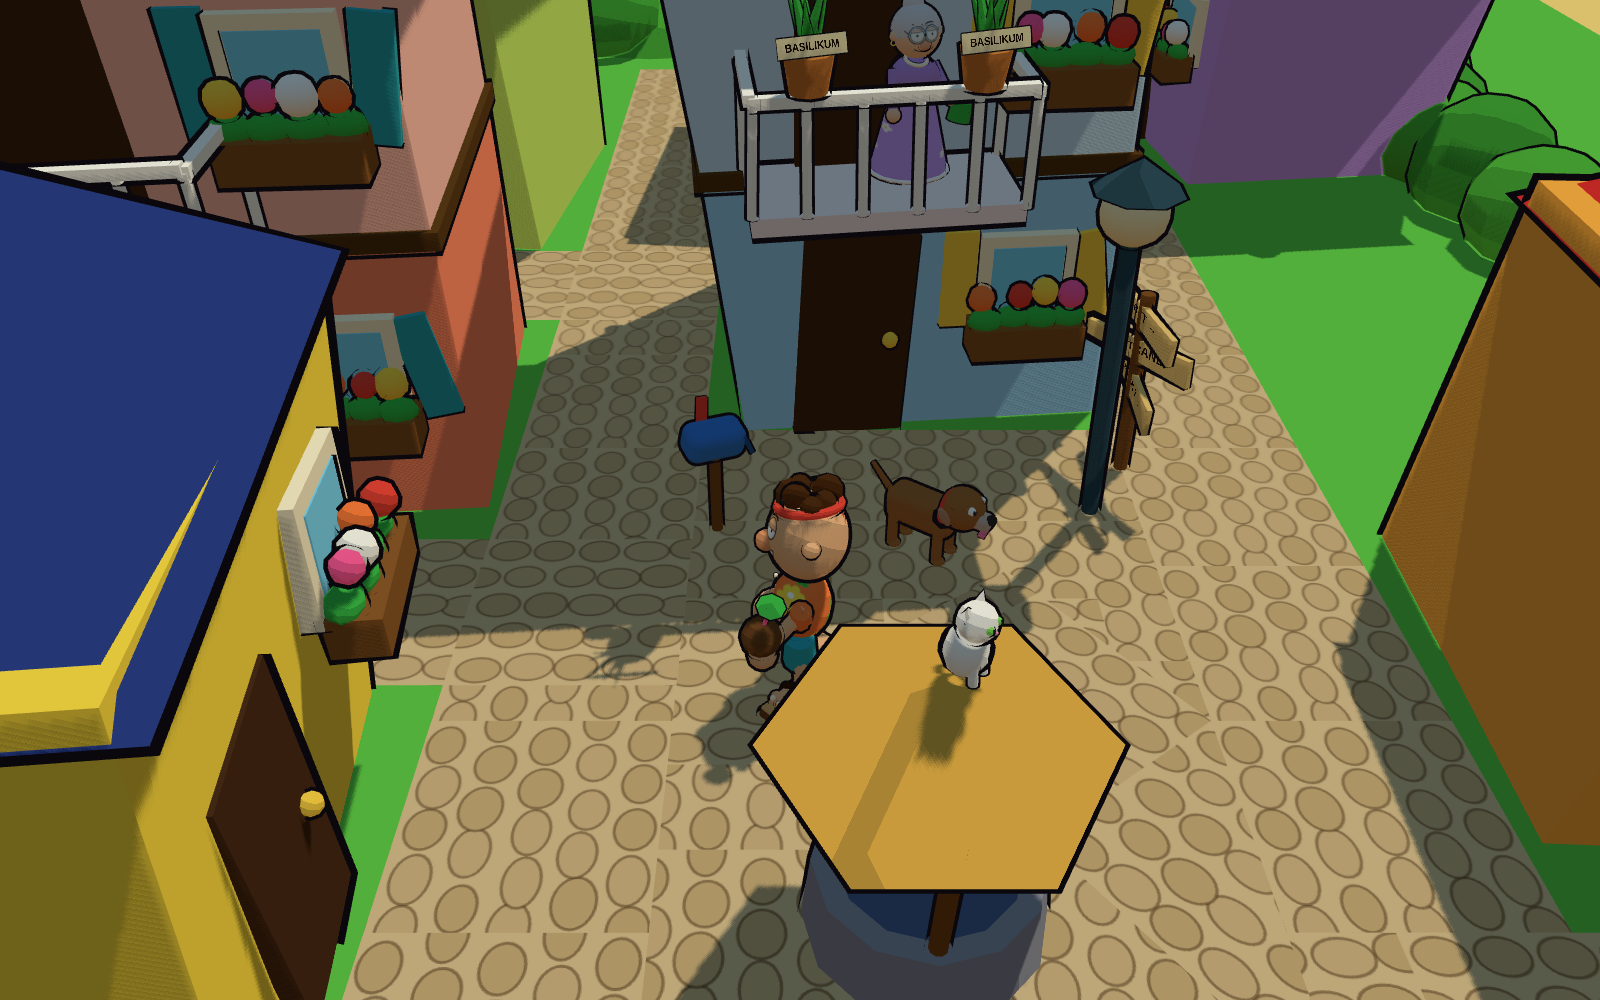
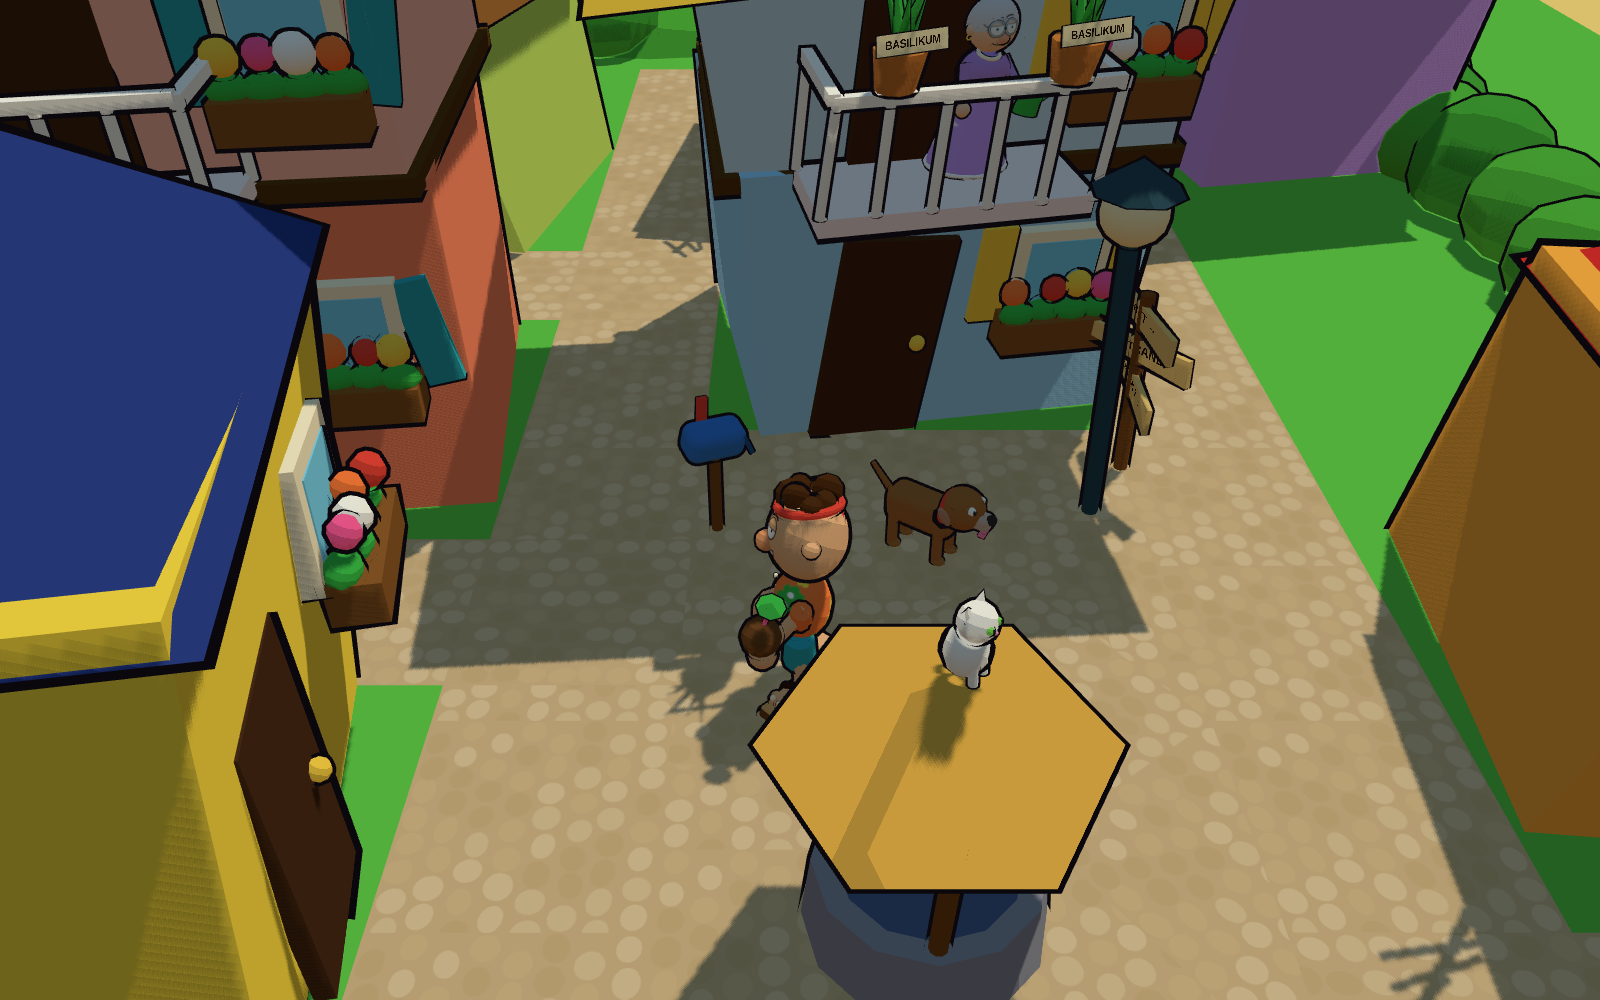
Dorf: schiefe Häuser mit Spitzdächern

diff --git a/spiel/js/zone-dorf.js b/spiel/js/zone-dorf.js
@@ -6,14 +6,35 @@
 import * as THREE from 'three';
 import { RoundedBoxGeometry } from 'three/addons/geometries/RoundedBoxGeometry.js';
 import { toonMesh, toon, deform, rng, textTexture, stripeTexture, BLACK } from './toon.js';
-import { limb, hut, mailbox, barrier, lamp } from './props.js';
+import { limb, mailbox, barrier, lamp } from './props.js';
 import { sneaker } from './figures.js';
 import { face, faceDecal } from './faces.js';
 import { BUILDING_BASE, buildingScale } from './logic.js';
 import { HOUSES, LANES, EXITS, PROPS, EDGES, DORF_SPOTS, footprintAABB } from './zone-dorf-layout.js';
 
 const V = (x, y, z) => new THREE.Vector3(x, y, z);
+const UP = new THREE.Vector3(0, 1, 0);
 const SCALE = buildingScale('hut');
+
+// Haus schief hinstellen: Position + Drehung + Skalierung, dazu eine Scherung (x' = x + kx·y, z' = z + kz·y),
+// die das ganze Haus samt Dach zur Seite kippt. Der Grundriss bei y = 0 bleibt, der Collider stimmt weiter.
+function placeCrooked(obj, x, z, rot, scale, kx, kz) {
+  const shear = new THREE.Matrix4().set(1, kx, 0, 0, 0, 1, 0, 0, 0, kz, 1, 0, 0, 0, 0, 1);
+  obj.matrix.compose(V(x, 0, z), new THREE.Quaternion().setFromAxisAngle(UP, rot), V(scale, scale, scale)).multiply(shear);
+  obj.matrixAutoUpdate = false;
+  obj.matrixWorldNeedsUpdate = true;
+}
+
+// Krumme Fernsehantenne fürs Dach
+function antenna() {
+  const g = new THREE.Group();
+  g.add(limb(V(0, 0, 0), V(0.15, 1.6, 0.08), 0.04, 0x555566, { outline: 0.02 }));
+  for (let i = 0; i < 3; i++) {
+    const bar = toonMesh(new THREE.BoxGeometry(0.9 - i * 0.2, 0.04, 0.04), 0x555566, { outline: 0.02 });
+    bar.position.set(0.08 + i * 0.03, 0.9 + i * 0.3, 0.04); bar.rotation.set(0, 0.3 + i * 0.2, 0.08 * (i % 2 ? 1 : -1)); g.add(bar);
+  }
+  return g;
+}
 const tint = (hex, k) => new THREE.Color(hex).lerp(new THREE.Color(0xffffff), k).getHex();
 
 // ---------- Canvas-Texturen (keine Fremd-Assets) ----------
@@ -322,33 +343,98 @@ function oma() {
   return g;
 }
 
+// ---------- Dorfhaus: eine Etage, Grundriss wie hut() (3.2 × 3.0), aber hohes verzogenes Dach mit welligem
+// Überhang, Gaube auf manchen, krummer Schornstein — damit es auch von oben schief aussieht ----------
+function cottage({ wall = 0xf08ac4, roofColor = 0x2fa9b9, lean = 0.4, seed = 2, sign = null } = {}) {
+  const g = new THREE.Group();
+  const rand = rng(seed);
+  const w = 3.2, d = 3.0, h = 2.3 + (seed % 3) * 0.3, flare = 1.12, twist = (seed % 2 ? 1 : -1) * 0.06;
+  const wallGeo = new THREE.BoxGeometry(w, h, d);
+  deform(wallGeo, (v) => { if (v.y > 0) { v.x = v.x * flare + lean; v.z = v.z * 1.06 + lean * 0.25; } });
+  wallGeo.translate(0, h / 2, 0);
+  g.add(toonMesh(wallGeo, wall, { outline: 0.06 }));
+  const frontZ = (t) => (d / 2) * (1 - t) + (d / 2 * 1.06 + lean * 0.25) * t;
+  const frontX = (t, x) => x * (1 + (flare - 1) * t) + lean * t;
+  // Tür, Klinke, Schild
+  const doorH = BUILDING_BASE.hut.door;
+  const door = toonMesh(new THREE.BoxGeometry(0.95, doorH, 0.12), 0x4a2e1a, { outline: 0.04 });
+  door.position.set(frontX(0.3, -0.55), doorH / 2, frontZ(0.35) + 0.02); door.rotation.z = 0.06; g.add(door);
+  const knob = toonMesh(new THREE.SphereGeometry(0.07, 8, 6), 0xffd54a, { outline: 0.02 });
+  knob.position.set(0.28, 0, 0.1); door.add(knob);
+  if (sign) {
+    const sp = plate(sign, 1.0, 0.17, { font: 'bold 60px sans-serif', tw: 1024, th: 112, thick: 0.03 });
+    sp.position.set(frontX(0.3, -0.55), doorH * 0.8, frontZ(0.35) + 0.1); sp.rotation.z = 0.1; g.add(sp);
+  }
+  // Fenster mit Läden, einer hängt; Blumenkasten darunter
+  const wx = frontX(0.62, 0.75), wy = h * 0.62, wz = frontZ(0.62) + 0.04;
+  const win = new THREE.Group();
+  win.add(toonMesh(new THREE.BoxGeometry(0.85, 0.8, 0.14), 0xfff4d6, { outline: 0.04 }));
+  win.add(toonMesh(new THREE.BoxGeometry(0.62, 0.58, 0.16), 0x7fd8ff, { outline: 0.02 }));
+  for (const sd of [-1, 1]) {
+    const sh = toonMesh(new THREE.BoxGeometry(0.28, 0.86, 0.08), roofColor, { outline: 0.03 });
+    sh.position.set(sd * 0.58, sd > 0 ? -0.05 : 0, -0.02); sh.rotation.z = sd > 0 ? 0.16 : 0; win.add(sh);
+  }
+  win.position.set(wx, wy, wz); win.rotation.z = -0.07; g.add(win);
+  const fb = flowerBox(0.95, seed); fb.position.set(wx, wy - 0.58, wz + 0.22); g.add(fb);
+  // Dach: hohe Pyramide, Spitze weit verzogen, Traufe wellig, Überhang, schräg aufgesetzt
+  const rr = w * flare * 0.8, roofH = 2.0 + (seed % 2) * 0.5;
+  const roofGeo = new THREE.ConeGeometry(rr, roofH, 4);
+  roofGeo.rotateY(Math.PI / 4 + twist);
+  deform(roofGeo, (v) => { if (v.y > 0.4) { v.x += lean * 1.5; v.z += lean * 0.4; } else { v.y -= 0.16 * Math.abs(Math.sin(v.x * 2.2 + 0.5)); } });
+  roofGeo.scale(1, 1, (d * 1.06) / (w * flare));
+  const roof = toonMesh(roofGeo, roofColor, { outline: 0.06 });
+  roof.position.set(lean * 0.9, h + roofH / 2 - 0.18, lean * 0.2); roof.rotation.set(0.03, 0, 0.06); g.add(roof);
+  // Gaube vorn auf jedem zweiten Haus
+  if (seed % 3 === 1) {
+    const dormer = toonMesh(new THREE.BoxGeometry(0.8, 0.7, 0.9), wall, { outline: 0.04 });
+    dormer.position.set(lean * 0.8 - 0.3, h + 0.55, d * 0.3); dormer.rotation.z = 0.05; g.add(dormer);
+    const dw = toonMesh(new THREE.BoxGeometry(0.45, 0.4, 0.1), 0x7fd8ff, { outline: 0.025 });
+    dw.position.set(0, 0.02, 0.46); dormer.add(dw);
+    const dr = toonMesh(new THREE.ConeGeometry(0.75, 0.6, 4), roofColor, { outline: 0.04 });
+    dr.geometry.rotateY(Math.PI / 4); dr.position.set(0, 0.6, 0); dr.rotation.z = 0.08; dormer.add(dr);
+  }
+  // Schornstein krumm, Antenne auf jedem dritten Haus
+  const cx = w * 0.3 - lean * 0.3, cz = -d * 0.2;
+  g.add(limb(V(cx, h + 0.4, cz), V(cx + 0.4, h + 1.9 + (seed % 2) * 0.3, cz + 0.1), 0.15, 0x555566, { outline: 0.04 }));
+  const cap = toonMesh(new THREE.CylinderGeometry(0.24, 0.24, 0.12, 10), 0x333344, { outline: 0.03 });
+  cap.position.set(cx + 0.42, h + 1.96 + (seed % 2) * 0.3, cz + 0.1); cap.rotation.z = 0.2; g.add(cap);
+  if (seed % 3 === 0) { const a = antenna(); a.position.set(-0.7, h + 1.0, -0.4); a.rotation.z = 0.2; g.add(a); }
+  void rand;
+  return g;
+}
+
 // ---------- Stadthaus: zwei Etagen, Balkon, Fensterläden, Blumenkästen (Grundriss wie hut: 3.2 × 3.0) ----------
 function townhouse({ wall = 0x9fd8ff, roofColor = 0xffd54a, lean = 0.3, seed = 4 } = {}) {
   const g = new THREE.Group();
   const rand = rng(seed);
-  const w = 3.2, d = 3.0, h1 = 2.4, h2 = 2.2, flare = 1.08;
+  // Höhen je Haus verschieden, Obergeschoss gegen das Erdgeschoss verdreht und weiter ausgestellt
+  const w = 3.2, d = 3.0, h1 = 2.2 + (seed % 3) * 0.3, h2 = 1.9 + (seed % 2) * 0.5, flare = 1.1, twist = (seed % 2 ? 1 : -1) * 0.07;
   const f1 = new THREE.BoxGeometry(w, h1, d);
-  deform(f1, (v) => { if (v.y > 0) { v.x = v.x * flare + lean * 0.5; v.z *= 1.03; } });
+  deform(f1, (v) => { if (v.y > 0) { v.x = v.x * flare + lean * 0.6; v.z = v.z * 1.04 + lean * 0.15; } });
   f1.translate(0, h1 / 2, 0);
   g.add(toonMesh(f1, wall, { outline: 0.06 }));
-  const w2 = w * flare, d2 = d * 1.03;
+  const w2 = w * flare, d2 = d * 1.04;
   const f2 = new THREE.BoxGeometry(w2, h2, d2);
-  deform(f2, (v) => { if (v.y > 0) { v.x = v.x * flare + lean * 0.6; v.z *= 1.04; } });
-  f2.translate(lean * 0.5, h1 + h2 / 2, 0);
+  deform(f2, (v) => { if (v.y > 0) { v.x = v.x * flare + lean * 0.8; v.z = v.z * 1.06 + lean * 0.2; } });
+  f2.rotateY(twist);
+  f2.translate(lean * 0.6, h1 + h2 / 2, lean * 0.15);
   g.add(toonMesh(f2, tint(wall, 0.35), { outline: 0.06 }));
-  const band = toonMesh(new THREE.BoxGeometry(w2 + 0.12, 0.14, d2 + 0.12), 0x5a3b1a, { outline: 0.035 });
-  band.position.set(lean * 0.5, h1, 0); band.rotation.z = 0.01; g.add(band);
-  // Dach: Pyramide, Spitze verzogen
-  const rr = w2 * flare * 0.85;
-  const roofGeo = new THREE.ConeGeometry(rr, 1.4, 4);
-  roofGeo.rotateY(Math.PI / 4);
-  deform(roofGeo, (v) => { if (v.y > 0.5) { v.x += lean * 0.9; v.z += lean * 0.25; } });
-  roofGeo.scale(1, 1, (d2 * 1.04) / (w2 * flare));
+  const band = toonMesh(new THREE.BoxGeometry(w2 + 0.16, 0.14, d2 + 0.16), 0x5a3b1a, { outline: 0.035 });
+  band.position.set(lean * 0.6, h1, lean * 0.15); band.rotation.set(0.02, twist, 0.03); g.add(band);
+  // Dach: hohe Pyramide mit Überhang, Spitze weit verzogen, insgesamt schräg aufgesetzt
+  const rr = w2 * flare * 0.82;
+  const roofH = 1.9 + (seed % 3) * 0.3;
+  const roofGeo = new THREE.ConeGeometry(rr, roofH, 4);
+  roofGeo.rotateY(Math.PI / 4 + twist);
+  deform(roofGeo, (v) => { if (v.y > 0.5) { v.x += lean * 1.6; v.z += lean * 0.5; } else { v.y -= 0.12 * Math.abs(Math.sin(v.x * 2.5)); } });
+  roofGeo.scale(1, 1, (d2 * 1.06) / (w2 * flare));
   const roof = toonMesh(roofGeo, roofColor, { outline: 0.06 });
-  roof.position.set(lean * 1.1, h1 + h2 + 0.65, 0); roof.rotation.z = 0.04; g.add(roof);
-  g.add(limb(V(-w * 0.3, h1 + h2 + 0.5, -d * 0.2), V(-w * 0.3 - 0.3, h1 + h2 + 1.9, -d * 0.2), 0.15, 0x555566, { outline: 0.04 }));
+  roof.position.set(lean * 1.0, h1 + h2 + roofH / 2 - 0.1, lean * 0.2); roof.rotation.set(0.04, 0, 0.07); g.add(roof);
+  const topY = h1 + h2 + roofH * 0.35;
+  g.add(limb(V(-w * 0.3, topY - 0.3, -d * 0.2), V(-w * 0.3 - 0.45, topY + 1.3, -d * 0.2 + 0.1), 0.15, 0x555566, { outline: 0.04 }));
   const cap = toonMesh(new THREE.CylinderGeometry(0.24, 0.24, 0.12, 10), 0x333344, { outline: 0.03 });
-  cap.position.set(-w * 0.3 - 0.32, h1 + h2 + 1.95, -d * 0.2); cap.rotation.z = 0.15; g.add(cap);
+  cap.position.set(-w * 0.3 - 0.47, topY + 1.36, -d * 0.2 + 0.1); cap.rotation.z = 0.25; g.add(cap);
+  if (seed % 2) { const a = antenna(); a.position.set(w * 0.35, topY + 0.1, d * 0.15); a.rotation.z = -0.15; g.add(a); }
 
   const frontZ1 = (t) => (d / 2) * (1 + 0.03 * t);
   const frontZ2 = (t) => (d2 / 2) * (1 + 0.04 * t);
@@ -537,19 +623,11 @@ export function buildDorf(parent, colliders) {
         towel.position.copy(obj.userData.railing).add(V(-0.4, -0.2, 0.02)); obj.add(towel);
       }
     } else {
-      obj = hut({ w: 3.2, h: 3.0, d: 3.0, lean, wall: h.wall, roofColor: h.roof, seed: h.seed });
-      // Blumenkasten unterm Fenster (Fensterposition wie in props.hut)
-      const fx = 0.75 * (1 + 0.14 * 0.62) + lean * 0.62, fz = 1.5 * 0.38 + (1.5 * 1.06 + lean * 0.25) * 0.62;
-      const fb = flowerBox(0.95, h.seed); fb.position.set(fx, 3.0 * 0.62 - 0.58, fz + 0.26); obj.add(fb);
-      if (h.sign) {
-        const s = plate(h.sign, 1.0, 0.17, { font: 'bold 60px sans-serif', tw: 1024, th: 112, thick: 0.03 });
-        s.position.set(-0.55 * 1.042 + 0.3 * lean, BUILDING_BASE.hut.door * 0.8, 1.5 * 0.65 + (1.59 + 0.25 * lean) * 0.35 + 0.1);
-        s.rotation.z = 0.1; obj.add(s);
-      }
+      obj = cottage({ wall: h.wall, roofColor: h.roof, lean: lean * (1 + (h.seed % 2) * 0.3), seed: h.seed, sign: h.sign });
     }
-    obj.position.set(h.x, 0, h.z);
-    obj.rotation.y = h.rot;
-    obj.scale.setScalar(SCALE);
+    // ganzes Haus zur Seite kippen (Scherung 4–9 %), Richtung je Haus anders
+    const r2 = rng(100 + h.seed);
+    placeCrooked(obj, h.x, h.z, h.rot, SCALE, (r2() - 0.5) * 0.18, (r2() - 0.5) * 0.14);
     add(obj);
     houseObjs[h.id] = obj;
     colliders.push(footprintAABB(h));

diff --git a/spiel/js/zone-dorf-layout.js b/spiel/js/zone-dorf-layout.js
@@ -10,19 +10,20 @@ export const DORF = { minX: -9, maxX: 38, minZ: -73, maxZ: -26 }; // im Süden (
 // Grundriss eines Hauses bei Gebäudeskala 2.1 (hut(): 3.2 × 3.0 → 6.72 × 6.3) plus Rand
 export const HOUSE = { w: 6.72, d: 6.3, margin: 0.12 };
 
-// kind: 'hut' (eine Etage, Kegeldach) | 'town' (zwei Etagen, Balkon). rot: Gierung, 0 = Tür nach Süden (+z).
+// kind: 'hut' (eine Etage, Kegeldach) | 'town' (zwei Etagen, Balkon). rot: Gierung, 0 = Tür nach Süden (+z);
+// jedes Haus ist 6–12° aus dem Raster gedreht (Krummgassen).
 export const HOUSES = [
-  { id: 'A', x: -5, z: -30, rot: Math.PI / 2 + 0.05, kind: 'hut', wall: 0xf08ac4, roof: 0x2fa9b9, seed: 2, sign: 'KLINGEL KAPUTT – RUFEN' },
-  { id: 'B', x: 6, z: -30, rot: -Math.PI / 2 - 0.05, kind: 'hut', wall: 0xffb347, roof: 0xd62e2e, seed: 3 },
+  { id: 'A', x: -5.3, z: -30, rot: Math.PI / 2 + 0.12, kind: 'hut', wall: 0xf08ac4, roof: 0x2fa9b9, seed: 2, sign: 'KLINGEL KAPUTT – RUFEN' },
+  { id: 'B', x: 6, z: -30, rot: -Math.PI / 2 - 0.1, kind: 'hut', wall: 0xffb347, roof: 0xd62e2e, seed: 3 },
   { id: 'C', x: 16, z: -41, rot: -Math.PI / 2 + 0.1, kind: 'town', wall: 0x9fd8ff, roof: 0xffd54a, seed: 4, balcony: 'oma' },
-  { id: 'D', x: 28, z: -30, rot: Math.PI + 0.12, kind: 'hut', wall: 0xc9a0ff, roof: 0x3bb84a, seed: 5 },
-  { id: 'E', x: 28, z: -41, rot: -0.1, kind: 'hut', wall: 0x9fe6c8, roof: 0xe8463a, seed: 6 },
-  { id: 'F', x: 2, z: -52, rot: 0.1, kind: 'hut', wall: 0xffe14a, roof: 0x2a3f8f, seed: 7 },
-  { id: 'G', x: 13, z: -52, rot: -Math.PI / 2 + 0.08, kind: 'town', wall: 0xff8c69, roof: 0x2fa9b9, seed: 8 },
-  { id: 'H', x: 24, z: -52, rot: Math.PI - 0.1, kind: 'hut', wall: 0xc5e86c, roof: 0x8b5a2b, seed: 9 },
-  { id: 'I', x: 2, z: -63, rot: Math.PI / 2 + 0.1, kind: 'hut', wall: 0x7fd8ff, roof: 0xd62e2e, seed: 10 },
-  { id: 'J', x: 14, z: -64, rot: -Math.PI / 2 - 0.05, kind: 'town', wall: 0xfff1c2, roof: 0xff5fa2, seed: 11 },
-  { id: 'K', x: 27, z: -64, rot: 0.08, kind: 'hut', wall: 0xe8463a, roof: 0x2a3f8f, seed: 12 },
+  { id: 'D', x: 28, z: -30, rot: Math.PI + 0.2, kind: 'hut', wall: 0xc9a0ff, roof: 0x3bb84a, seed: 5 },
+  { id: 'E', x: 28, z: -41, rot: -0.15, kind: 'hut', wall: 0x9fe6c8, roof: 0xe8463a, seed: 6 },
+  { id: 'F', x: 2, z: -52, rot: 0.17, kind: 'hut', wall: 0xffe14a, roof: 0x2a3f8f, seed: 7 },
+  { id: 'G', x: 13, z: -52, rot: -Math.PI / 2 + 0.12, kind: 'town', wall: 0xff8c69, roof: 0x2fa9b9, seed: 8 },
+  { id: 'H', x: 24.3, z: -52, rot: Math.PI - 0.19, kind: 'hut', wall: 0xc5e86c, roof: 0x8b5a2b, seed: 9 },
+  { id: 'I', x: 2, z: -63, rot: Math.PI / 2 + 0.15, kind: 'hut', wall: 0x7fd8ff, roof: 0xd62e2e, seed: 10 },
+  { id: 'J', x: 14, z: -64, rot: -Math.PI / 2 - 0.1, kind: 'town', wall: 0xfff1c2, roof: 0xff5fa2, seed: 11 },
+  { id: 'K', x: 27, z: -64, rot: 0.14, kind: 'hut', wall: 0xe8463a, roof: 0x2a3f8f, seed: 12 },
 ];
 
 // Gassen als Polylinien (Mittellinie). Eingang = Heckenlücke bei (0, -26), Ausgänge Markt (Osten) und Posten 7 (Norden).
